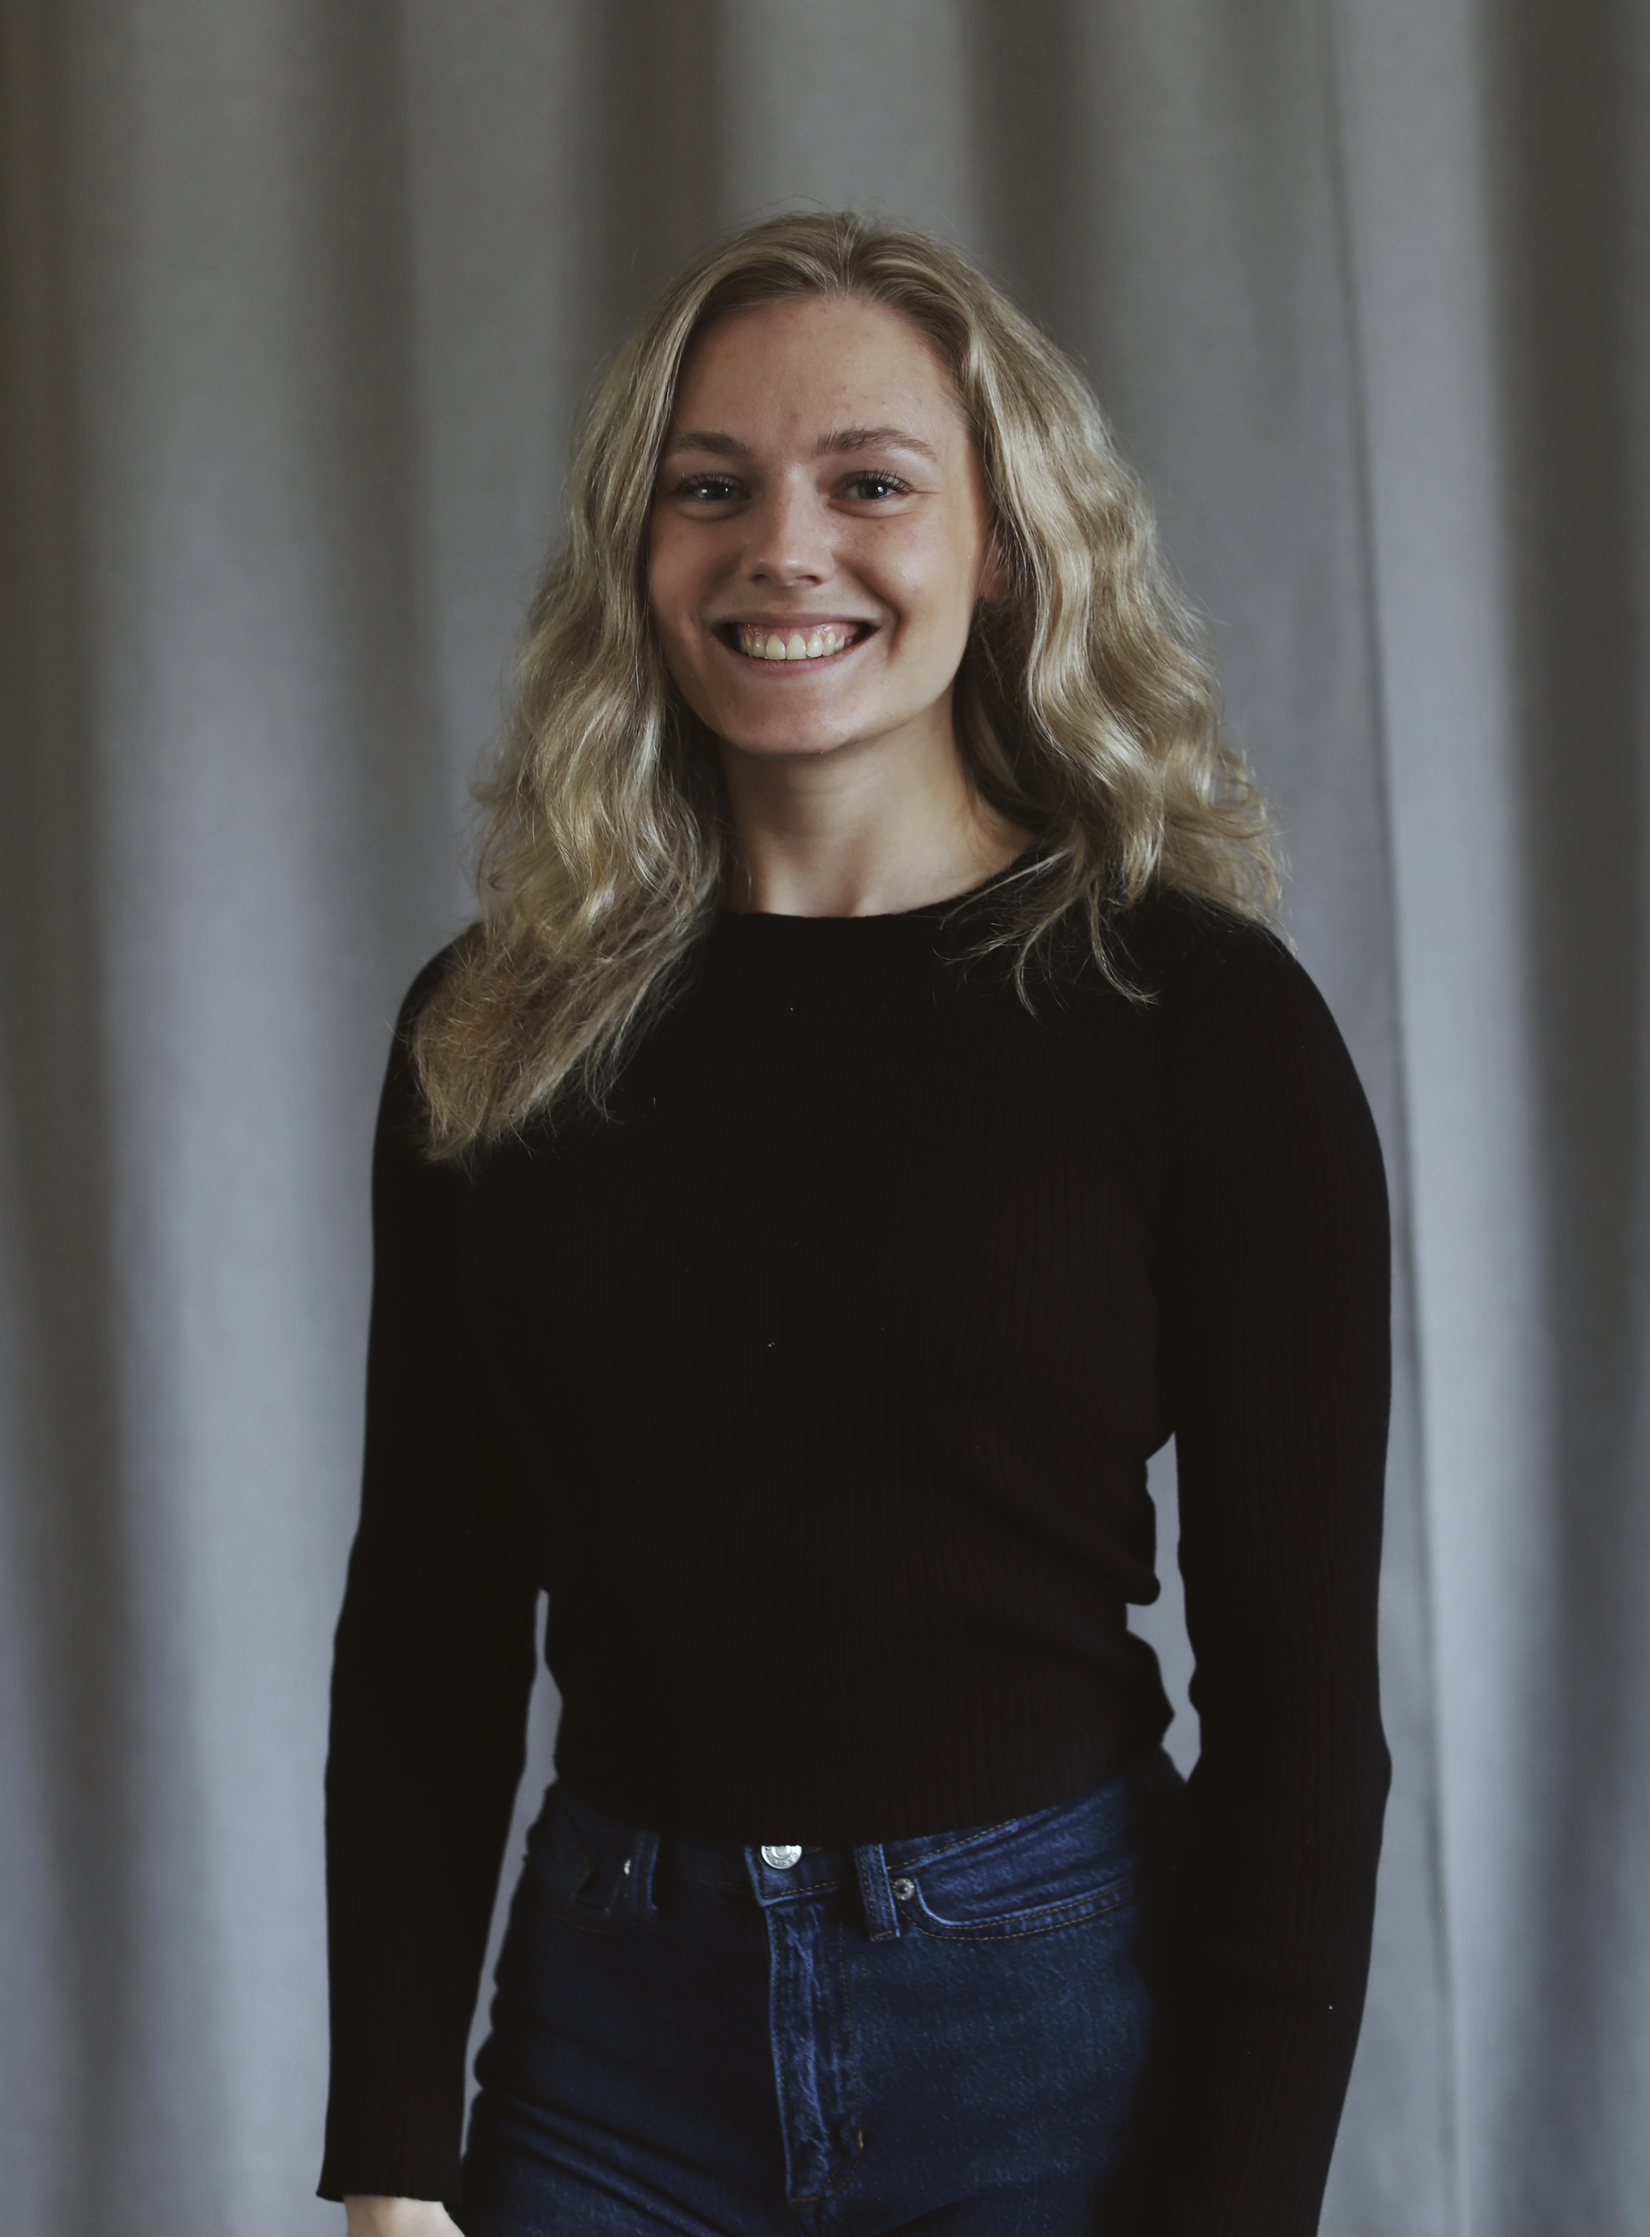
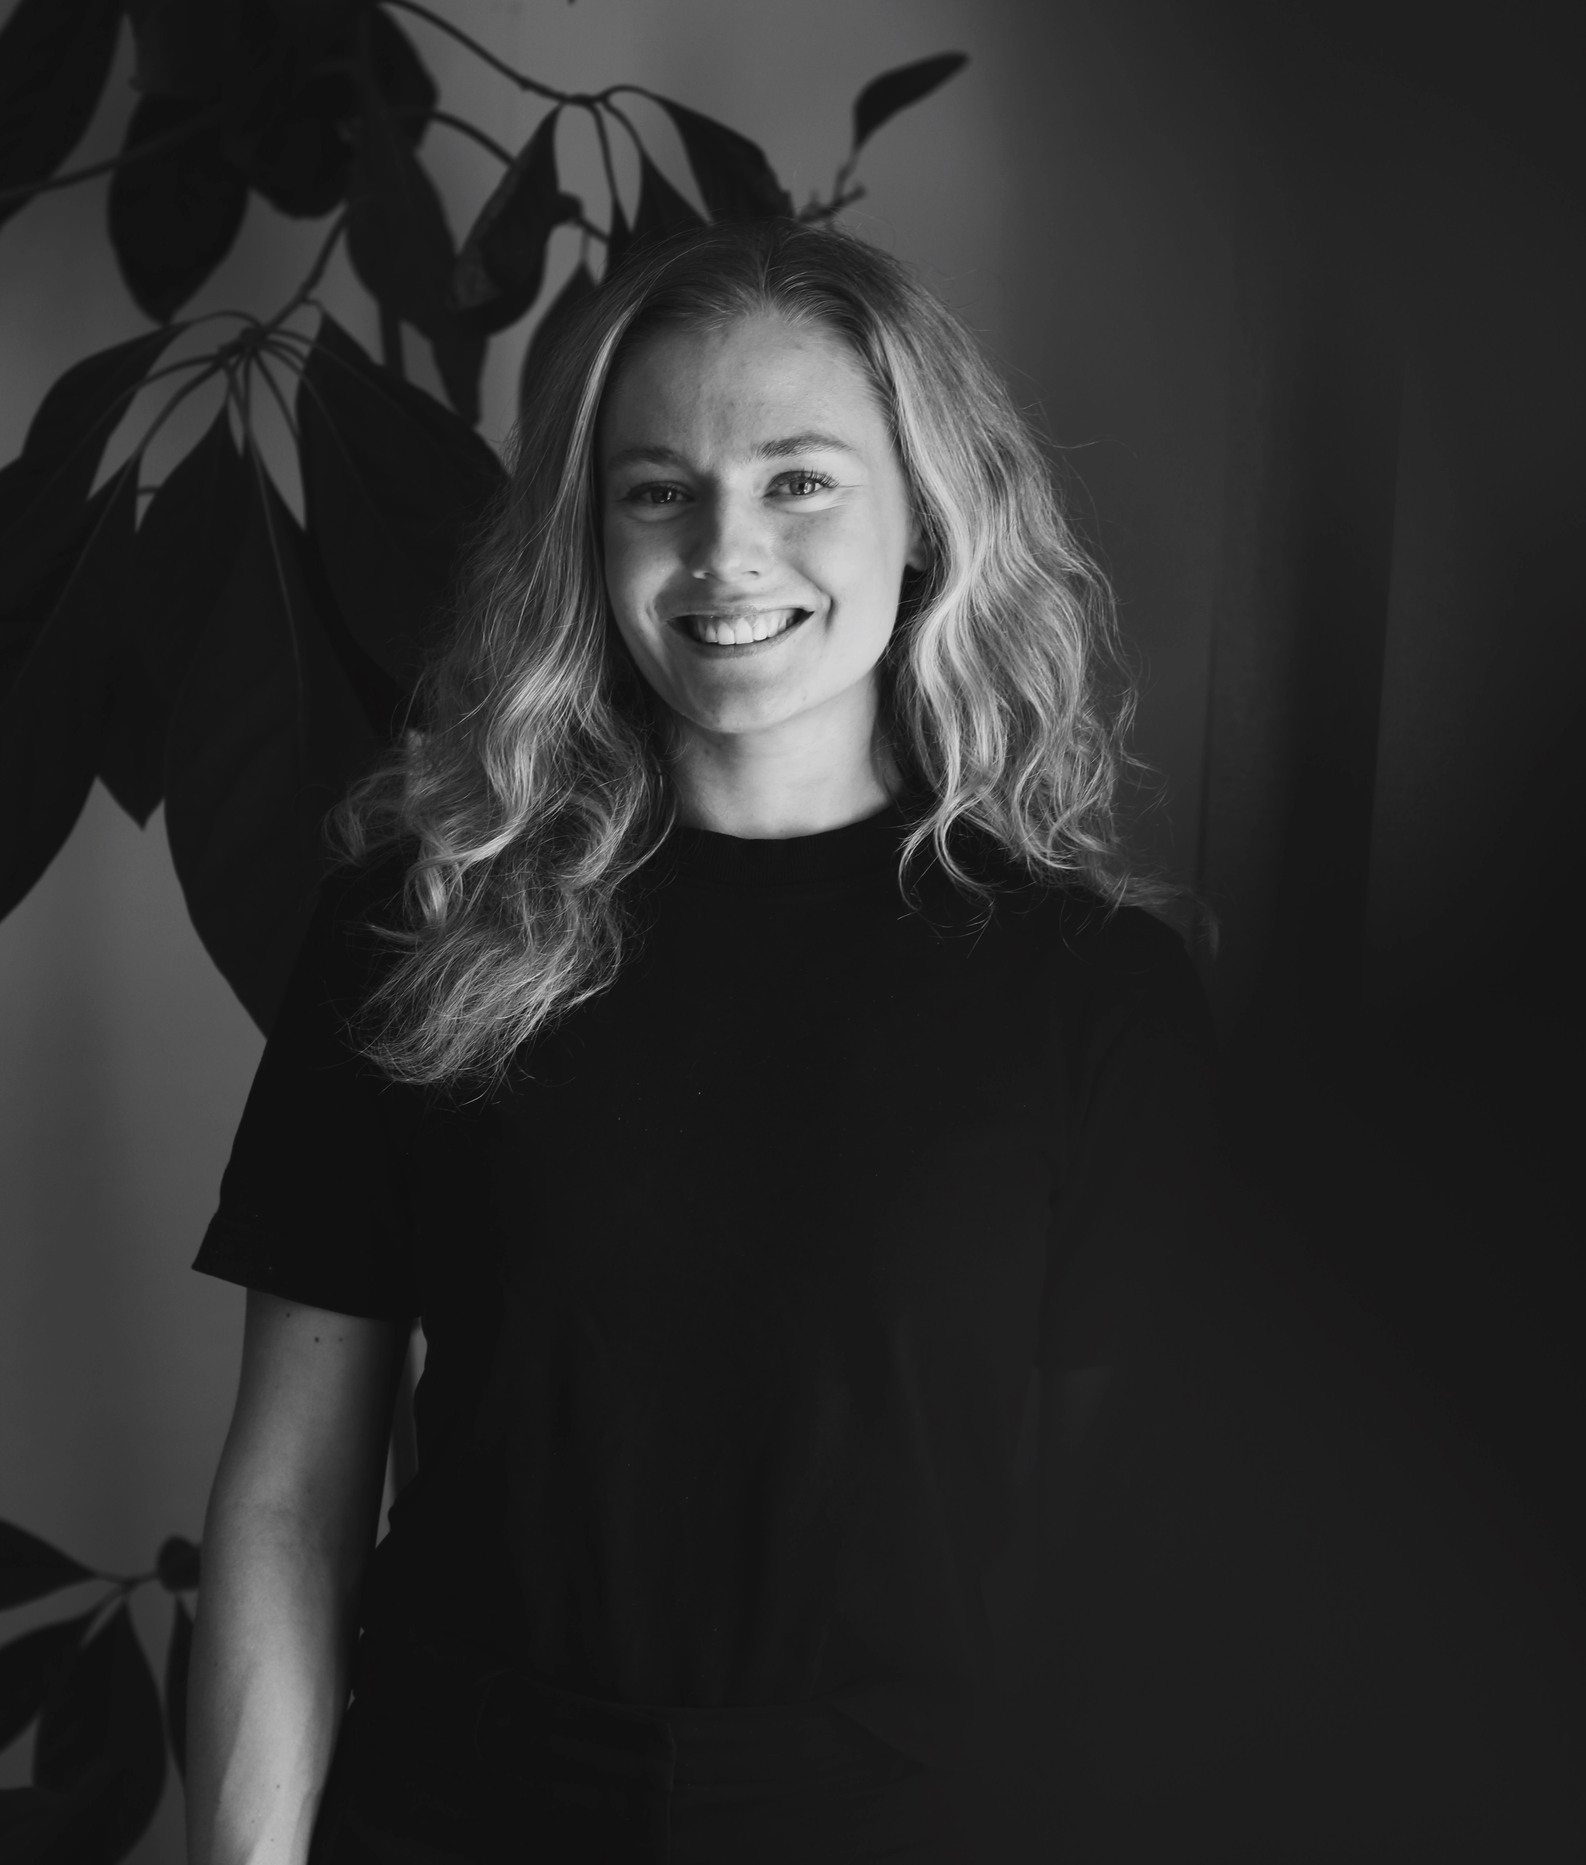
byte av bilder på mig och lite ändringar i textbeskrivning om mig

diff --git a/frontend/src/components/Views/Home.tsx b/frontend/src/components/Views/Home.tsx
@@ -1,6 +1,6 @@
 import { Link } from 'react-router-dom';
 import homeImage from '../../Assets/homepagen.webp'
-import homeImageAboutMe from '../../Assets/aboutMe.webp'
+import homeImageAboutMe from '../../Assets/aboutMeHome.webp'
 import homeImageSaxar from '../../Assets/sax.webp'
 import homeImageUpdo from '../../Assets/1.webp'
 import homeImageBraiding from '../../Assets/braiding.webp'
@@ -27,7 +27,7 @@ const Home = () => {
         <p>Hej! Jag heter Alice, 24 år från Jönköping, 
         och har en stark passion för håruppsättningar. 
         Jag gick frisörlinjen på gymnasiet och har gjort flera bal- och bröllopsuppsättningar, 
-        och genom denna sida vill jag nå ut till fler.</p>
+        och genom denna sida vill jag nå ut till fler!</p>
         <button> <Link className="link" to="./AboutMePage">Läs mer om mig</Link></button>
       </div>
 
@@ -86,7 +86,7 @@ const Home = () => {
       <div className="Costumer-Img">
         <img src={homeImageBraiding} alt="bild" />
         <div className="Costumer-Text">
-        <p>Ibland kan det vara en stressfylld dag inför ett festligt tillfälle, och för att underlätta detta erbjuder jag mig att resa till dig.</p>
+        <p>Ibland kan det vara en stressfylld dag inför ett festligt tillfälle, och för att underlätta detta erbjuder jag mig att resa till dig</p>
         </div>
       </div>
     </div>
@@ -104,17 +104,17 @@ const Home = () => {
       
       <details className="faq">
         <summary className="que">Kan man boka provfrisyr?</summary>
-        <div className="ans">Ja, vill man boka provfrisyr går det bra. Den görs hemma hos mig och kostar 200kr.</div>
+        <div className="ans">Ja, vill man boka provfrisyr går det bra och är något jag rekomenderar. Den görs hemma hos mig och kostar 200kr som läggs till på slutpriset.</div>
       </details>
 
       <details className="faq">
         <summary className="que">Hur långt kan du resa och tar du betalt för den?</summary>
-        <div className="ans">Jag reser upp till 16 mil från Jönköping Central. Det tillkommer en avgift på 25kr/mil. </div>
+        <div className="ans">Jag reser upp till 16 mil från Jönköping Central. Det tillkommer en avgift på 20kr/mil. </div>
       </details>
 
       <details className="faq">
         <summary className="que">Går det boka för fler personer, till exempel tärnor?</summary>
-        <div className="ans">Det går jättebra. För tärnor utöver brud dras 100kr/person av på priset.</div>
+        <div className="ans">Det går jättebra. För tärnor utöver brud dras -100kr/person av på priset.</div>
       </details>
 
       <details className="faq">
@@ -129,7 +129,7 @@ const Home = () => {
 
       <details className="faq">
         <summary className="que">Vad händer om jag behöver avboka?</summary>
-        <div className="ans">Jag ansvarar inte för kostnader eller skador som uppstår till följd av avbokning från min sida på grund av sjukdom eller annan oförutsedd händelse.</div>
+        <div className="ans">Behöver du avboka ska det meddelas till mig och har du gjort en provupsättning betalas den på 200kr. Jag ansvarar inte för kostnader eller skador som uppstår till följd av avbokning från min sida på grund av sjukdom eller annan oförutsedd händelse.</div>
       </details>
 
       </div>

diff --git a/frontend/src/components/Views/AboutMe.tsx b/frontend/src/components/Views/AboutMe.tsx
@@ -14,11 +14,11 @@ const AboutMe = () => {
     <div className="OmMig-Text">
       <p className='h3'>Hur började intresse för hår, egentligen?</p>
       <br />
-      <p>För mig handlade det om nyfikenhet och kreativitet. På gymnasiet valde jag frisörutbildningen, men intresset började långt tidigare - hemma i vardagsrummet. Frisyrer som växte fram framför spegeln, hårnålar utspridda på bordet och min syster som tålmodigt ställde upp som modell och fotograf.
+      <p>För mig handlade det om nyfikenhet och kreativitet inom hår. På gymnasiet valde jag frisörutbildningen, men intresset började långt tidigare - hemma i vardagsrummet. Frisyrer som växte fram framför spegeln, hårnålar utspridda på bordet, och min syster och far som tålmodigt ställde upp som fotograf.
       <br /> <br /> 
       Till slut blev det för roligt för att inte dela. Alice hairstyles började som ett Instagramkonto mest på skoj, en plats att samla idéer och inspiration. Men idéerna fortsatte att flöda, bilderna blev fler och kontot växte till över 10 000 följare.
       <br /> <br />
-      Idag är kontot inte längre aktivt, men skapandet finns kvar. Jag gör fortfarande frisyrer när tillfälle ges – till bröllop, bal och andra stunder.</p>
+      Idag är kontot inte längre lika aktivt, men skapandet finns kvar. Jag gör fortfarande frisyrer när tillfälle ges – till bröllop, bal och andra stunder.</p>
       </div>
       <div className="AboutMe-Img">
       <img src={aboutMeImage} alt='bild' />

diff --git a/frontend/src/components/Views/Image.tsx b/frontend/src/components/Views/Image.tsx
@@ -5,6 +5,7 @@ import image4 from '../../Assets/4.webp'
 import image5 from '../../Assets/5.webp'
 import image6 from '../../Assets/6.webp'
 import image7 from '../../Assets/7.webp'
+import image8 from '../../Assets/8.webp'
 import image9 from '../../Assets/9.webp'
 import image10 from '../../Assets/10.webp'
 import image11 from '../../Assets/11.webp'
@@ -14,6 +15,8 @@ import image14 from '../../Assets/14.webp'
 import image15 from '../../Assets/15.webp'
 import image16 from '../../Assets/16.webp'
 import image17 from '../../Assets/17.webp'
+import image19 from '../../Assets/19.webp'
+import image20 from '../../Assets/20.webp'
 
 const Image = () => {
   return (
@@ -30,6 +33,7 @@ const Image = () => {
           <img className="imgs" src={image5} alt='bild'/>
           <img className="imgs" src={image6} alt='bild'/>
           <img className="imgs" src={image7} alt='bild'/>
+          <img className="imgs" src={image8} alt='bild'/>
           <img className="imgs" src={image9} alt='bild'/>
           <img className="imgs" src={image10} alt='bild'/>
           <img className="imgs" src={image11} alt='bild'/>
@@ -39,6 +43,8 @@ const Image = () => {
           <img className="imgs" src={image15} alt='bild'/>
           <img className="imgs" src={image16} alt='bild'/>
           <img className="imgs" src={image17} alt='bild'/>
+          <img className="imgs" src={image19} alt='bild'/>
+          <img className="imgs" src={image20} alt='bild'/>
 
           </div>
 

diff --git a/frontend/src/css/Home.css b/frontend/src/css/Home.css
@@ -1,6 +1,6 @@
 
   .HomePage-startDiv {
-    height: 44rem;
+    height: 48rem;
 
     font-family: "Comic Neue", cursive;
     font-weight: 700;
@@ -31,7 +31,7 @@
 
 
 .Home-Page-Img {
-  height: 44rem;
+  height: 48rem;
   p {
     font-size: 1.5rem;
     letter-spacing: 0.5px;
@@ -39,10 +39,10 @@
   img {
       display: flex;
       border-radius: 1.25rem;
-      min-height: 35rem;
+      height: 40rem;
       width: 100%;
       object-fit: cover;
-      object-position: 42% 58%;
+      object-position: 40% 60%;
     }
 }
 
@@ -61,7 +61,7 @@ a {
 /* Om mig på start/hemsida */
 
 .AboutMe-StartPage {
-  height: 42rem;
+  height: 44rem;
   display: flex;
   justify-content: space-between;
   align-items: center;
@@ -92,7 +92,7 @@ a {
 .AboutMe-StartPage-Bild {
   position: relative;
   overflow: hidden;
-  width: 100%;
+  width: 50%;
 
   img {
     border-radius: 1.25rem;
@@ -100,7 +100,7 @@ a {
     width: 100%;
     display: block;
     object-fit: cover;
-    object-position: center; 
+    object-position: 30% 30%; 
   }
 }
 

diff --git a/frontend/src/css/AboutMe.css b/frontend/src/css/AboutMe.css
@@ -14,7 +14,7 @@
 }
 
 .OmMig-Page {
-  height: 50rem;
+  height: 60rem;
   display: flex;
   align-items: center;
   justify-content: space-between;
@@ -45,17 +45,17 @@
   img {
     display: flex;
     border-radius: 1.25rem;
-    height: 35rem;
+    height: 46rem;
     width: 100%;
     display: block;
     object-fit: cover;
-    object-position: center; 
+    object-position: 30% 30%;
   }
 }
 
 
 .KontaktaMig-Page {
-  min-height: 44rem;
+  min-height: 54rem;
   display: flex;
   align-items: center;
   justify-content: space-between;
